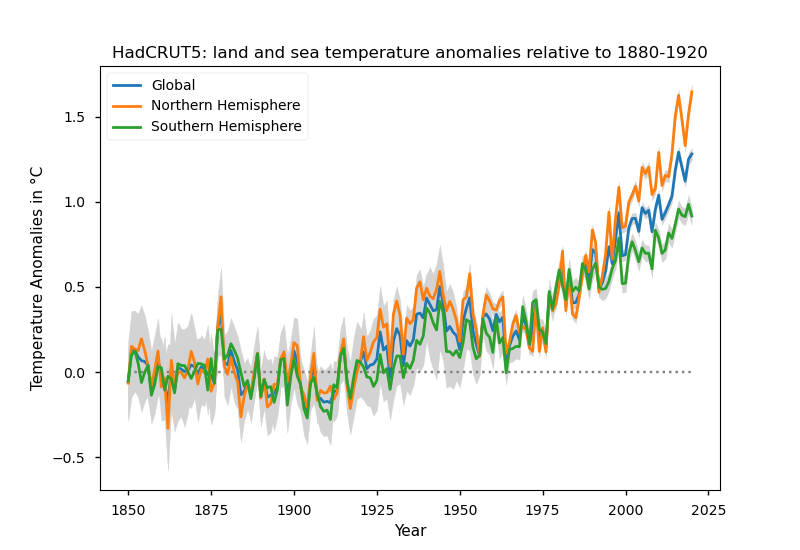
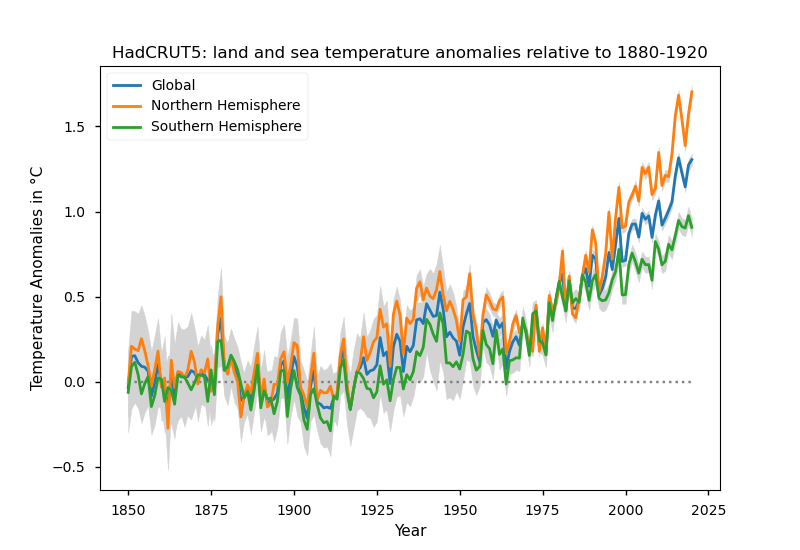
Fix the mean calculation for the period 1880-1920

diff --git a/hadcrut5-plot.py b/hadcrut5-plot.py
@@ -116,8 +116,14 @@ def dataset_normalize(tas_mean, period, norm_temp=None):
         return (tas_mean, norm_temp)
 
     if not norm_temp:
-        # The dataset starts from 1850-01-01 00:00:00
-        norm_temp = np.mean(tas_mean[:50])
+        if period == "1850-1900":
+            # The dataset starts from 1850-01-01 00:00:00
+            norm_temp = np.mean(tas_mean[:50])
+        elif period == "1880-1920":
+            norm_temp = np.mean(tas_mean[30:41])
+        else:
+            raise Exception("Unsupported period \"{}\"".format(period))
+
         print(("The mean anomaly in {0} is about: {1:.8f}°C"
                .format(period, norm_temp)))
 
@@ -153,6 +159,7 @@ def plot(datasets, outfile, period, chunksize):
 
         if chunksize > 1:
             years, mean = dataset_smoother(years, mean, 5)
+            print("delta ({}): {}".format(years[-1], mean[-1]))
         else:
             plt.fill_between(years, lower, upper, color="lightgray")
         plt.plot(years, mean, linewidth=2, markersize=12, label=item)
